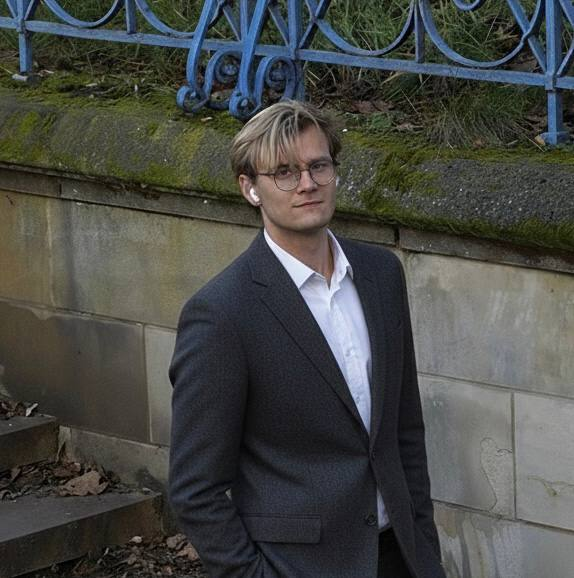
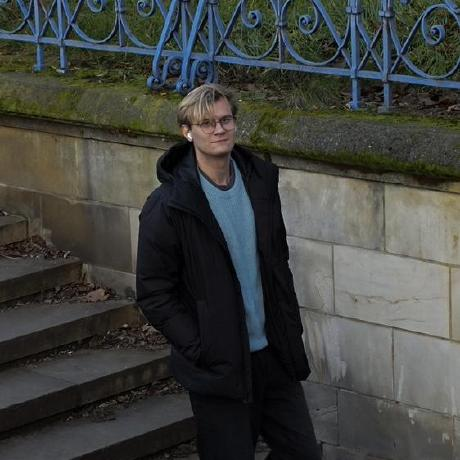
Add animation octogon

diff --git a/src/main.ts b/src/main.ts
@@ -1,3 +1,5 @@
+// src/main.ts
+
 interface Point3D {
   x: number;
   y: number;
@@ -11,7 +13,6 @@ document.addEventListener("DOMContentLoaded", () => {
   const ctx = canvas.getContext("2d");
   if (!ctx) return;
 
-  // Handle resizing so the canvas always matches the window
   const resize = () => {
     canvas.width = window.innerWidth;
     canvas.height = window.innerHeight;
@@ -21,17 +22,16 @@ document.addEventListener("DOMContentLoaded", () => {
 
   const scale = 168;
 
-  // Hexagonal prism vertices (top hexagon + bottom hexagon)
   const hexRadius = 2;
   const height = 0.7;
   const vertices: Point3D[] = [];
 
-  // Create multiple hexagonal rings at different heights for more geometry
   const rings = 4;
   for (let r = 0; r < rings; r++) {
     const y = -height + (2 * height * r) / (rings - 1);
     const ringScale = 1 - 0.15 * Math.abs(r - (rings - 1) / 2) / ((rings - 1) / 2); // slight taper
     for (let i = 0; i < 8; i++) {
+
       const angle = (Math.PI / 4) * i - Math.PI / 8;
       vertices.push({
         x: Math.cos(angle) * hexRadius * ringScale,
@@ -41,7 +41,6 @@ document.addEventListener("DOMContentLoaded", () => {
     }
   }
 
-  // Center points top and bottom
   const centerTop = vertices.length;
   vertices.push({ x: 0, y: -height, z: 0 });
   const centerBottom = vertices.length;
@@ -55,7 +54,6 @@ document.addEventListener("DOMContentLoaded", () => {
     edges.push({ from: a, to: b, bright });
   };
 
-  // Hexagon ring edges
   for (let r = 0; r < rings; r++) {
     const base = r * 8;
     for (let i = 0; i < 8; i++) {
@@ -63,14 +61,12 @@ document.addEventListener("DOMContentLoaded", () => {
     }
   }
 
-  // Vertical edges connecting rings
   for (let r = 0; r < rings - 1; r++) {
     for (let i = 0; i < 8; i++) {
       addEdge(r * 8 + i, (r + 1) * 8 + i, true);
     }
   }
 
-  // Diagonal edges between adjacent rings
   for (let r = 0; r < rings - 1; r++) {
     for (let i = 0; i < 8; i++) {
       addEdge(r * 8 + i, (r + 1) * 8 + ((i + 1) % 8), false);
@@ -78,20 +74,16 @@ document.addEventListener("DOMContentLoaded", () => {
     }
   }
 
-  // Connect centers to top/bottom rings
   for (let i = 0; i < 8; i++) {
     addEdge(centerTop, i, true);
     addEdge(centerBottom, (rings - 1) * 8 + i, true);
   }
 
-  // Cross-connections through center for web effect
   for (let i = 0; i < 8; i++) {
     addEdge(centerMid, Math.floor(rings / 2) * 8 + i, false);
-    // Connect top to bottom diagonally
     addEdge(i, (rings - 1) * 8 + ((i + 4) % 8), false);
     addEdge(i, (rings - 1) * 8 + ((i + 3) % 8), false);
   }
-
 
   const rotateY = (p: Point3D, angle: number): Point3D => ({
     x: p.x * Math.cos(angle) + p.z * Math.sin(angle),
@@ -107,10 +99,9 @@ document.addEventListener("DOMContentLoaded", () => {
 
   const project = (p: Point3D): { x: number; y: number; depth: number } => {
     const fov = 12;
-    const z = p.z + fov ;
+    const z = p.z + fov;
     const factor = fov / z;
-    // Pushing the shape slightly to the right so it doesn't overlap text
-    const xOffset = canvas.width / 2; 
+    const xOffset = canvas.width / 2;
     return {
       x: p.x * factor * scale + xOffset,
       y: p.y * factor * scale + canvas.height / 2,
@@ -118,18 +109,13 @@ document.addEventListener("DOMContentLoaded", () => {
     };
   };
 
-
   const draw = (time: number) => {
     ctx.clearRect(0, 0, canvas.width, canvas.height);
 
     const angleYVal = time * 0.0006;
     const angleXVal = Math.sin(time * 0.0003) * 0.3;
-
-    const rawSine = Math.sin(time * 0.0002);
-    const snapFactor = 0.5;
-
-    // Breathing stretch
-    const stretch = Math.sign(rawSine) * Math.pow(Math.abs(rawSine), snapFactor) * 1.4;
+    
+    const stretch = 1 + 0.3  * Math.sin(time * 0.0001);
 
     const projected = vertices.map((v) => {
       const stretched = { x: v.x * stretch, y: v.y * stretch, z: v.z * stretch };
@@ -138,7 +124,6 @@ document.addEventListener("DOMContentLoaded", () => {
       return project(r);
     });
 
-    // Draw edges
     edges.forEach(({ from, to, bright }) => {
       const a = projected[from];
       const b = projected[to];
@@ -148,7 +133,7 @@ document.addEventListener("DOMContentLoaded", () => {
       ctx.beginPath();
       ctx.moveTo(a.x, a.y);
       ctx.lineTo(b.x, b.y);
-      ctx.strokeStyle = `rgba(181, 255, 233, ${alpha})`; 
+      ctx.strokeStyle = `rgba(181, 255, 233, ${alpha})`;
       ctx.lineWidth = width;
       if (bright) {
         ctx.shadowColor = "rgba(181, 255, 233, 0.5)";
@@ -158,7 +143,6 @@ document.addEventListener("DOMContentLoaded", () => {
       ctx.shadowBlur = 0;
     });
 
-    // Vertices
     projected.forEach((p) => {
       const alpha = Math.max(0.3, 0.9 - p.depth * 0.06);
       ctx.beginPath();
@@ -173,6 +157,5 @@ document.addEventListener("DOMContentLoaded", () => {
     requestAnimationFrame(draw);
   };
 
-  // Start the loop
   requestAnimationFrame(draw);
 });
